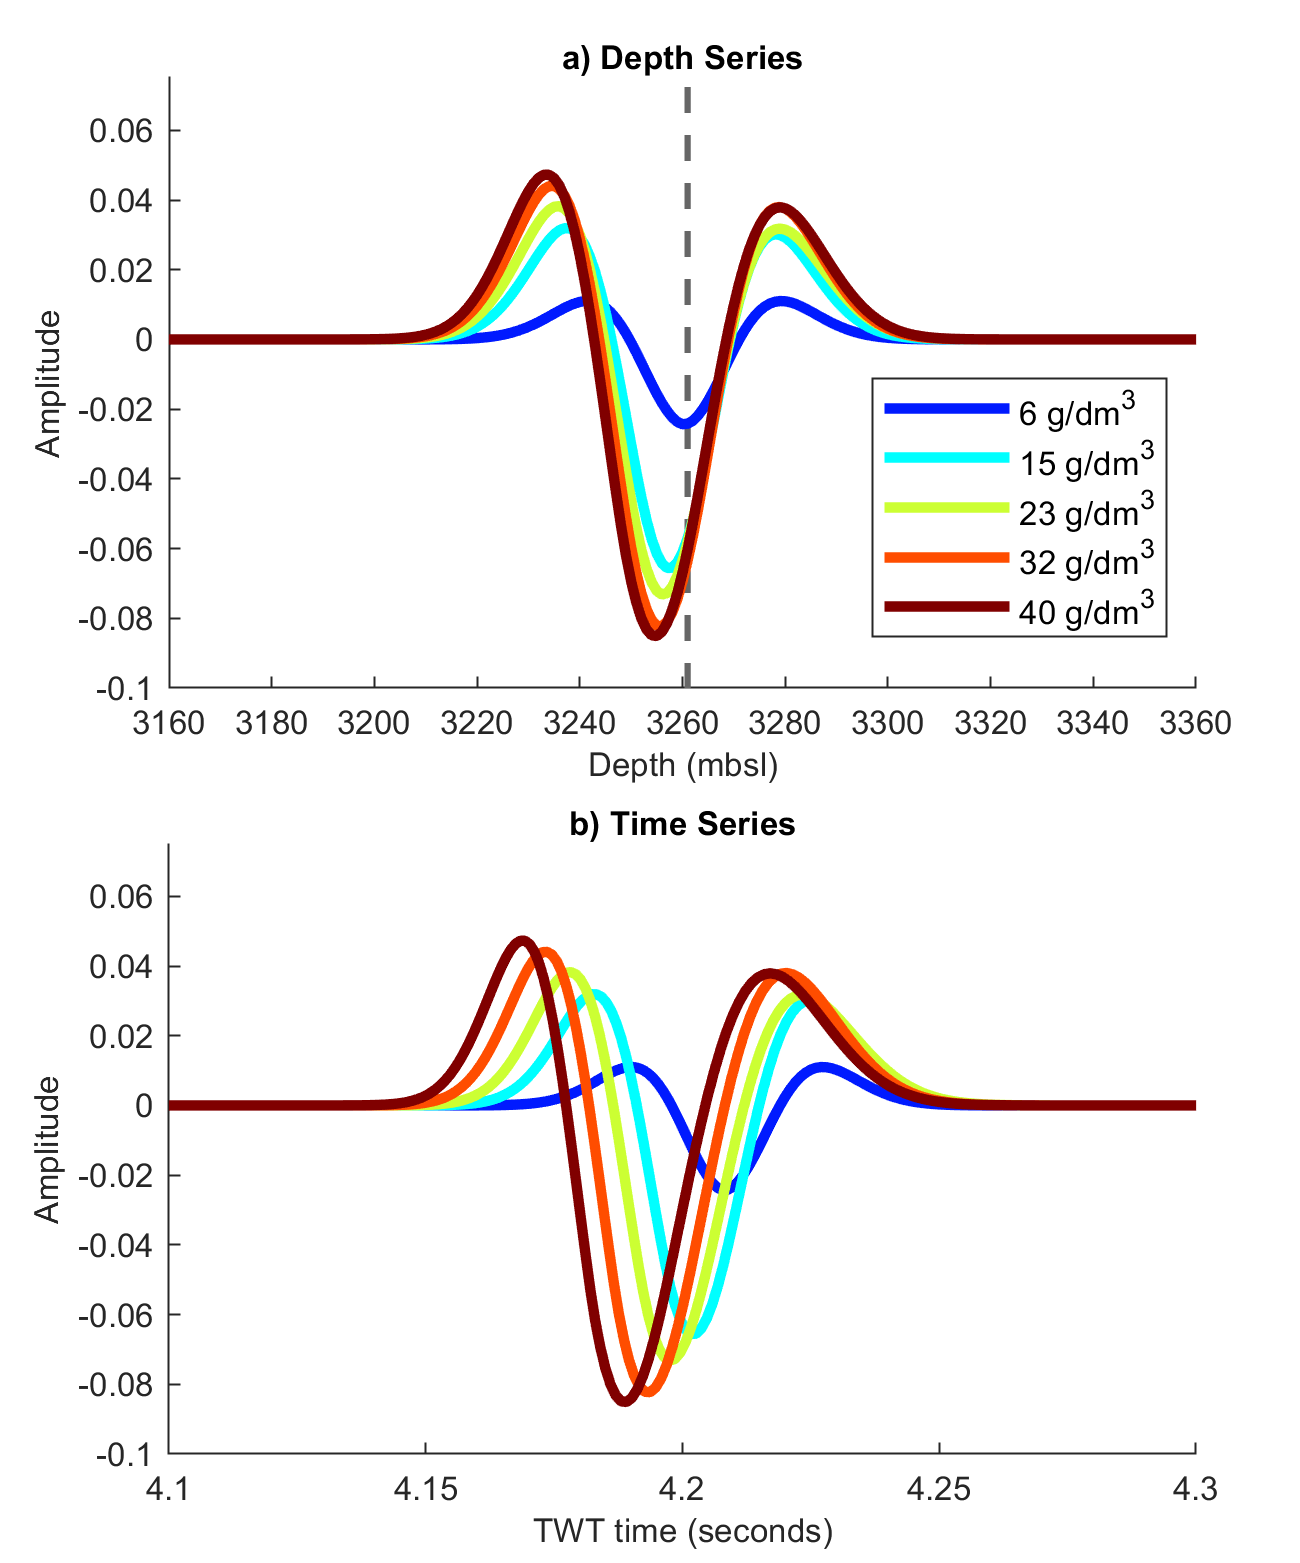
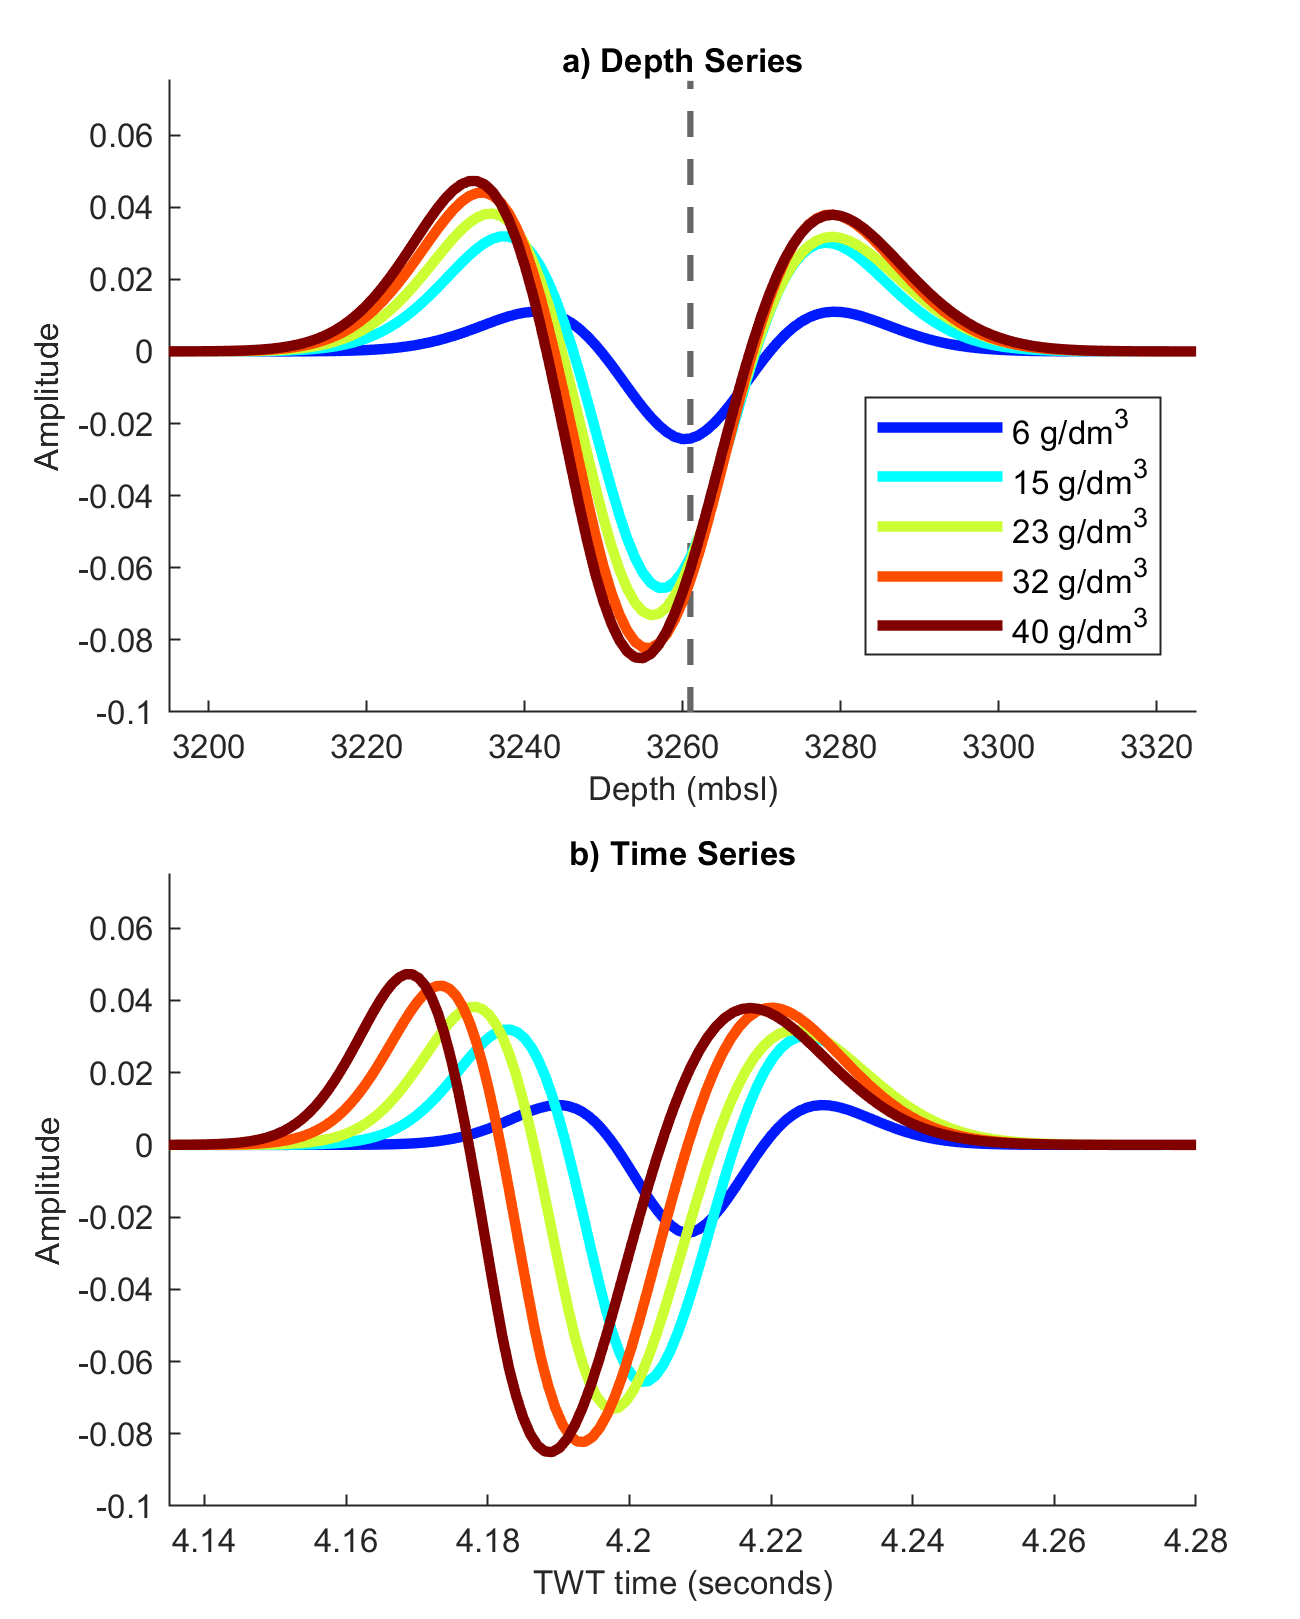
Finished necessary figure edits
changes to mainly axis of seismogram figures

diff --git a/DCSeismicAnalysisBR.m b/DCSeismicAnalysisBR.m
@@ -806,7 +806,7 @@ classdef DCSeismicAnalysisBR < DCBlakeRidge
             hold on
             % 3 phase bulk equilibrium depth line
             BEQL3P = 481 + obj.seafloorDepth; % mbsf
-            plot([BEQL3P, BEQL3P], [-1, 1], '--' , 'Color' , [.4 .4 .4] , 'linewidth' , 1.5 );
+            plot([BEQL3P, BEQL3P], [-1, 1], '--', 'Color', [.4 .4 .4], 'linewidth', 1.5);
             
             figureCellArray = cell(numel(quantity), 1);
             figureNumber = 0;
@@ -817,7 +817,8 @@ classdef DCSeismicAnalysisBR < DCBlakeRidge
                                                     'Color', colorStream(iQuantity,:)', ...
                                                     'linewidth', 2.5);
             end
-            axis([380 + obj.seafloorDepth, 580 + obj.seafloorDepth, obj.axisMinAmplitude obj.axisMaxAmplitude])
+%             axis([380 + obj.seafloorDepth, 580 + obj.seafloorDepth, obj.axisMinAmplitude obj.axisMaxAmplitude])
+            axis([415 + obj.seafloorDepth, 545 + obj.seafloorDepth, obj.axisMinAmplitude obj.axisMaxAmplitude])
             xlabel('Depth (mbsl)')
             ylabel('Amplitude')
             title('a) Depth Series')
@@ -832,7 +833,8 @@ classdef DCSeismicAnalysisBR < DCBlakeRidge
                     'Color', colorStream(iQuantity,:)', ...
                     'Linewidth', 2.5)
             end       
-            axis([4.1 4.3 obj.axisMinAmplitude obj.axisMaxAmplitude])
+%             axis([4.1 4.3 obj.axisMinAmplitude obj.axisMaxAmplitude])
+            axis([4.135 4.28 obj.axisMinAmplitude obj.axisMaxAmplitude])
             xlabel('TWT time (seconds)')
             ylabel('Amplitude')
             title('b) Time Series')
@@ -1041,17 +1043,17 @@ classdef DCSeismicAnalysisBR < DCBlakeRidge
             hold on
             colorStream = colormap(jet(nQuantity));
             
-            %%% ADD TRANSITION ZONE SHADED REGION TO ALL PLOTS
-%             BEQL3P = 481 + obj.seafloorDepth; % mbsl
-%             plot([BEQL3P, BEQL3P], [-1, 1], '--', ...
-%                     'Color', [.4 .4 .4], 'Linewidth', 1.5)
+            
+            BEQL3P = 481 + obj.seafloorDepth; % mbsl
+            plot([BEQL3P, BEQL3P], [-1, 1], '--', 'Color', [.4 .4 .4], 'Linewidth', 1.5)
             
             for iQuantity = startIndex:nQuantity
                 plot(depth, Wave.seismogram{iQuantity}, ...
                         'Color', colorStream(iQuantity,:)', ...
                         'Linewidth', 1);
             end
-            axis([380 + obj.seafloorDepth 580 + obj.seafloorDepth -0.15 0.1])
+%             axis([380 + obj.seafloorDepth 580 + obj.seafloorDepth -0.15 0.1])
+            axis([415 + obj.seafloorDepth, 545 + obj.seafloorDepth, -0.15, 0.1])
             xlabel('Depth (mbsl)')
             ylabel('Amplitude')
             title('a) Depth Series')
@@ -1071,7 +1073,8 @@ classdef DCSeismicAnalysisBR < DCBlakeRidge
                     'Color', colorStream(iQuantity,:)', ...
                     'Linewidth', 1)
             end
-            axis([4.15 4.35 -0.15 0.1])
+%             axis([4.15 4.35 -0.15 0.1])
+            axis([4.19 4.33 -0.15 0.1])
             xlabel('TWT time (seconds)')
             ylabel('Amplitude')
             title('b) Time Series')
@@ -1095,12 +1098,19 @@ classdef DCSeismicAnalysisBR < DCBlakeRidge
             
             figure
             colorStream = jet(numel(Wave.VPFS));
+            hold on
+            
+            leftLimit = 3248;
+            rightLimit = 3276;            
+            DCSeismicAnalysisBR.DrawRectangle(leftLimit, rightLimit, 1200, 2400)
+
+            
             %%% VP
             % Base case
             plot(depth, WaveBase.VPFS, 'k:', 'Linewidth', 2.5)
             % Methane quantity cases
             for iQuantity = quantity
-                hold on
+                
                 plot(depth, Wave.VPFS{iQuantity}, ...
                     'Color', colorStream(iQuantity,:)', ...
                     'Linewidth', 2.5);
@@ -1197,9 +1207,9 @@ classdef DCSeismicAnalysisBR < DCBlakeRidge
             %%% Depth series seismogram
             axis1 = subplot(2, 1, 1);
             hold on
-%             % 3 phase bulk equilibrium depth line
-%             BEQL3P = 481; % mbsf
-%             plot([BEQL3P, BEQL3P], [-1, 1], '--' , 'Color' , [.4 .4 .4] , 'linewidth' , 1.5 );
+            % 3 phase bulk equilibrium depth line
+            BEQL3P = 481 + obj.seafloorDepth; % mbsl
+            plot([BEQL3P, BEQL3P], [-1, 1], '--' , 'Color' , [.4 .4 .4] , 'linewidth' , 1.5 );
             
             figureCellArray = cell(numel(quantity) + 1, 1);
             figureNumber = 0;
@@ -1215,7 +1225,7 @@ classdef DCSeismicAnalysisBR < DCBlakeRidge
                                                     'k:', ...
                                                     'linewidth', 2.5);
             
-            axis([380 + obj.seafloorDepth, 580 + obj.seafloorDepth, -0.15 0.15])
+            axis([415 + obj.seafloorDepth, 545 + obj.seafloorDepth, -0.15 0.15])
             xlabel('Depth (mbsl)')
             ylabel('Amplitude')
             title('a) Depth Series')
@@ -1235,7 +1245,7 @@ classdef DCSeismicAnalysisBR < DCBlakeRidge
                     'k:', ...
                     'Linewidth', 2.5)
             
-            axis([4.15 4.35 -0.15 0.15])
+            axis([4.19 4.33 -0.15 0.15])
             xlabel('TWT time (seconds)')
             ylabel('Amplitude')
             title('b) Time Series')
@@ -1361,9 +1371,9 @@ classdef DCSeismicAnalysisBR < DCBlakeRidge
             figure
 
             axis_1 = subplot(2,1,1);
-            h = plot( Dickens.MethaneQuantity(:,1) , Dickens.MethaneQuantity(:,2) , 'k' );
+            h = plot( Dickens.MethaneQuantity(:,1) , Dickens.MethaneQuantity(:,2) + obj.seafloorDepth , 'k' );
             set(gca,'YDir','Reverse')
-            axis([0 40 100 600])
+            axis([0 40 100 + obj.seafloorDepth 600 + obj.seafloorDepth])
             % grid on
             xlabel('Methane quantity (g/dm^3 of pore volume)')
             ylabel('Depth (mbsl)')
@@ -1377,26 +1387,26 @@ classdef DCSeismicAnalysisBR < DCBlakeRidge
             % scatter( Sg_interpolated , Dickens.MethaneQuantity(:,2) )
             % hold on
             axis_2 = subplot(2,1,2);
-            h = plot( Dickens.Hydrate , obj.depthArray );
+            h = plot( Dickens.Hydrate , obj.depthArray + obj.seafloorDepth );
             set(h,'LineWidth',2.5);
             set(h,'Color',[0 .5 0]);
             hold on
-            h = plot( Dickens.Gas , obj.depthArray , 'r--' );
+            h = plot( Dickens.Gas , obj.depthArray + obj.seafloorDepth, 'r--' );
             set(h,'LineWidth',2.5);
             set(gca,'YDir','Reverse')
-            axis([0 0.2 100 600])
+            axis([0 0.2 100 + obj.seafloorDepth 600 + obj.seafloorDepth])
             % axis([0 0.2 420 520])
             xlabel('Fluid saturations')
             ylabel('Depth (mbsl)')
             title('b) Variable Methane Quantity Scenario')
             % grid on
             legend('Hydrate saturation' , 'Gas saturation' )
-
-
+            
+            
             axis_1.Position = [.15 .59 .78 .37];
             axis_2.Position = [.15 .08 .78 .37];
-
-
+            
+            
             figure_1 = gcf;
             figure_1.Position(3) = 320;
             set(findall(figure_1,'-property','FontSize'),'FontSize',8)
